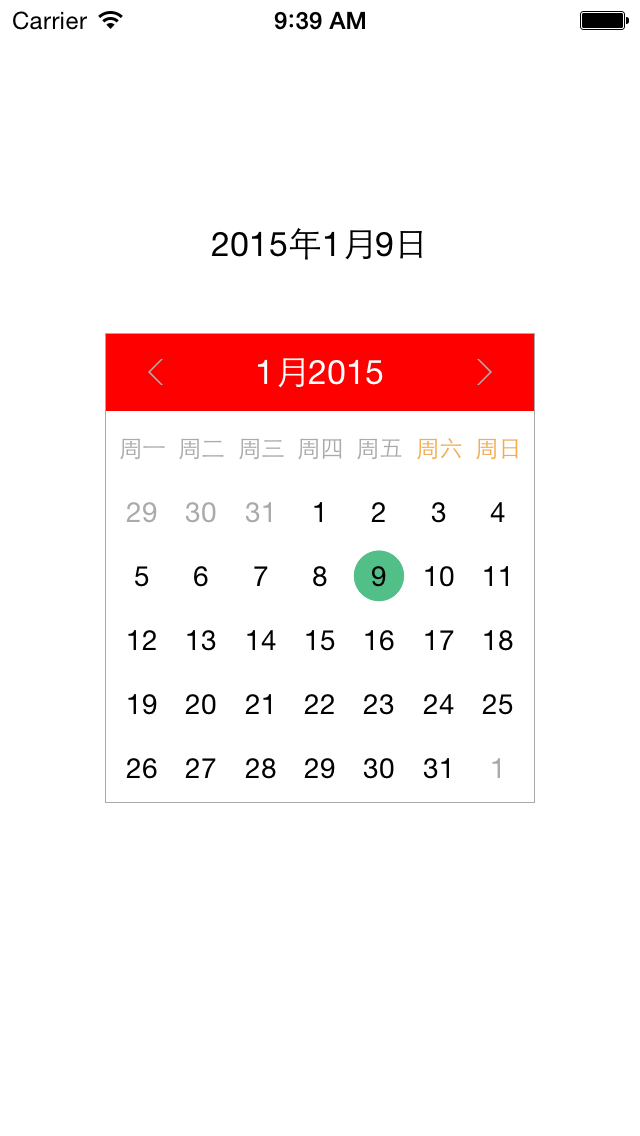
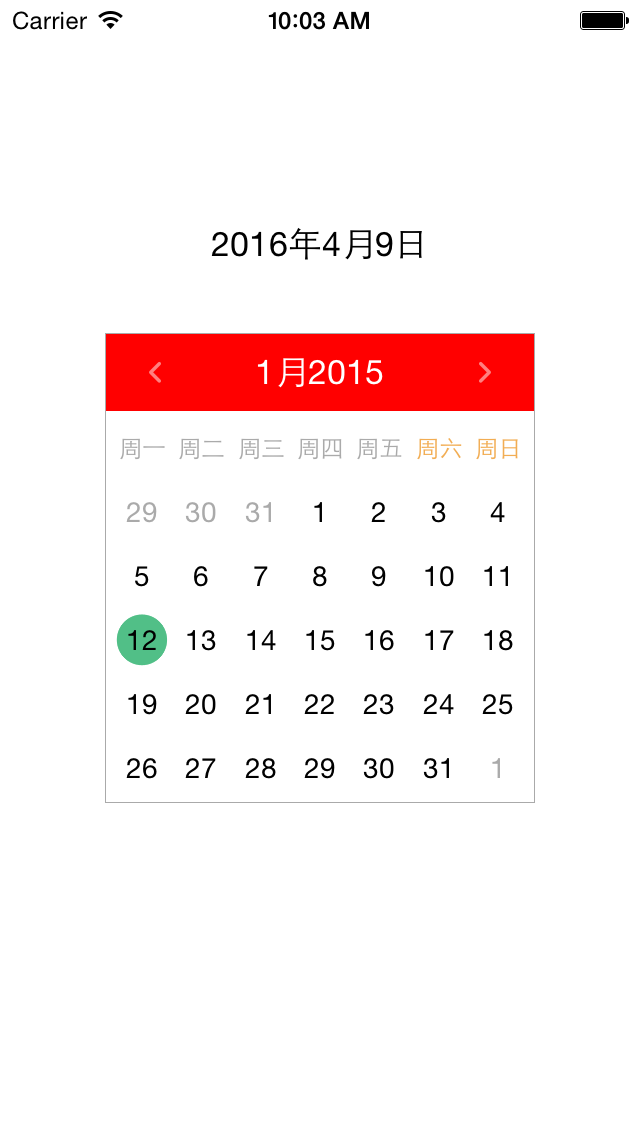
change UI

diff --git a/Calendar/CHDatePickerView/CHDatePickerView.swift b/Calendar/CHDatePickerView/CHDatePickerView.swift
@@ -53,12 +53,11 @@ class CHDatePickerView: UIView, UICollectionViewDataSource, UICollectionViewDele
         
         let leftBtn = UIButton(frame: CGRectMake(0, 0, 50, frame.height))
         leftBtn.addTarget(self, action: "leftBtnClicked", forControlEvents: UIControlEvents.TouchUpInside)
-        leftBtn.setImage(UIImage(named: "arrow"), forState: UIControlState.Normal)
-        leftBtn.transform = CGAffineTransformRotate(leftBtn.transform, CGFloat(M_PI))
+        leftBtn.setImage(UIImage(named: "back"), forState: UIControlState.Normal)
         topView.addSubview(leftBtn)
         
         let rightBtn = UIButton(frame: CGRectMake(frame.width - 50, 0, 50, frame.height))
-        rightBtn.setImage(UIImage(named: "arrow"), forState: UIControlState.Normal)
+        rightBtn.setImage(UIImage(named: "forward"), forState: UIControlState.Normal)
         rightBtn.addTarget(self, action: "rightBtnClicked", forControlEvents: UIControlEvents.TouchUpInside)
         topView.addSubview(rightBtn)
     }
